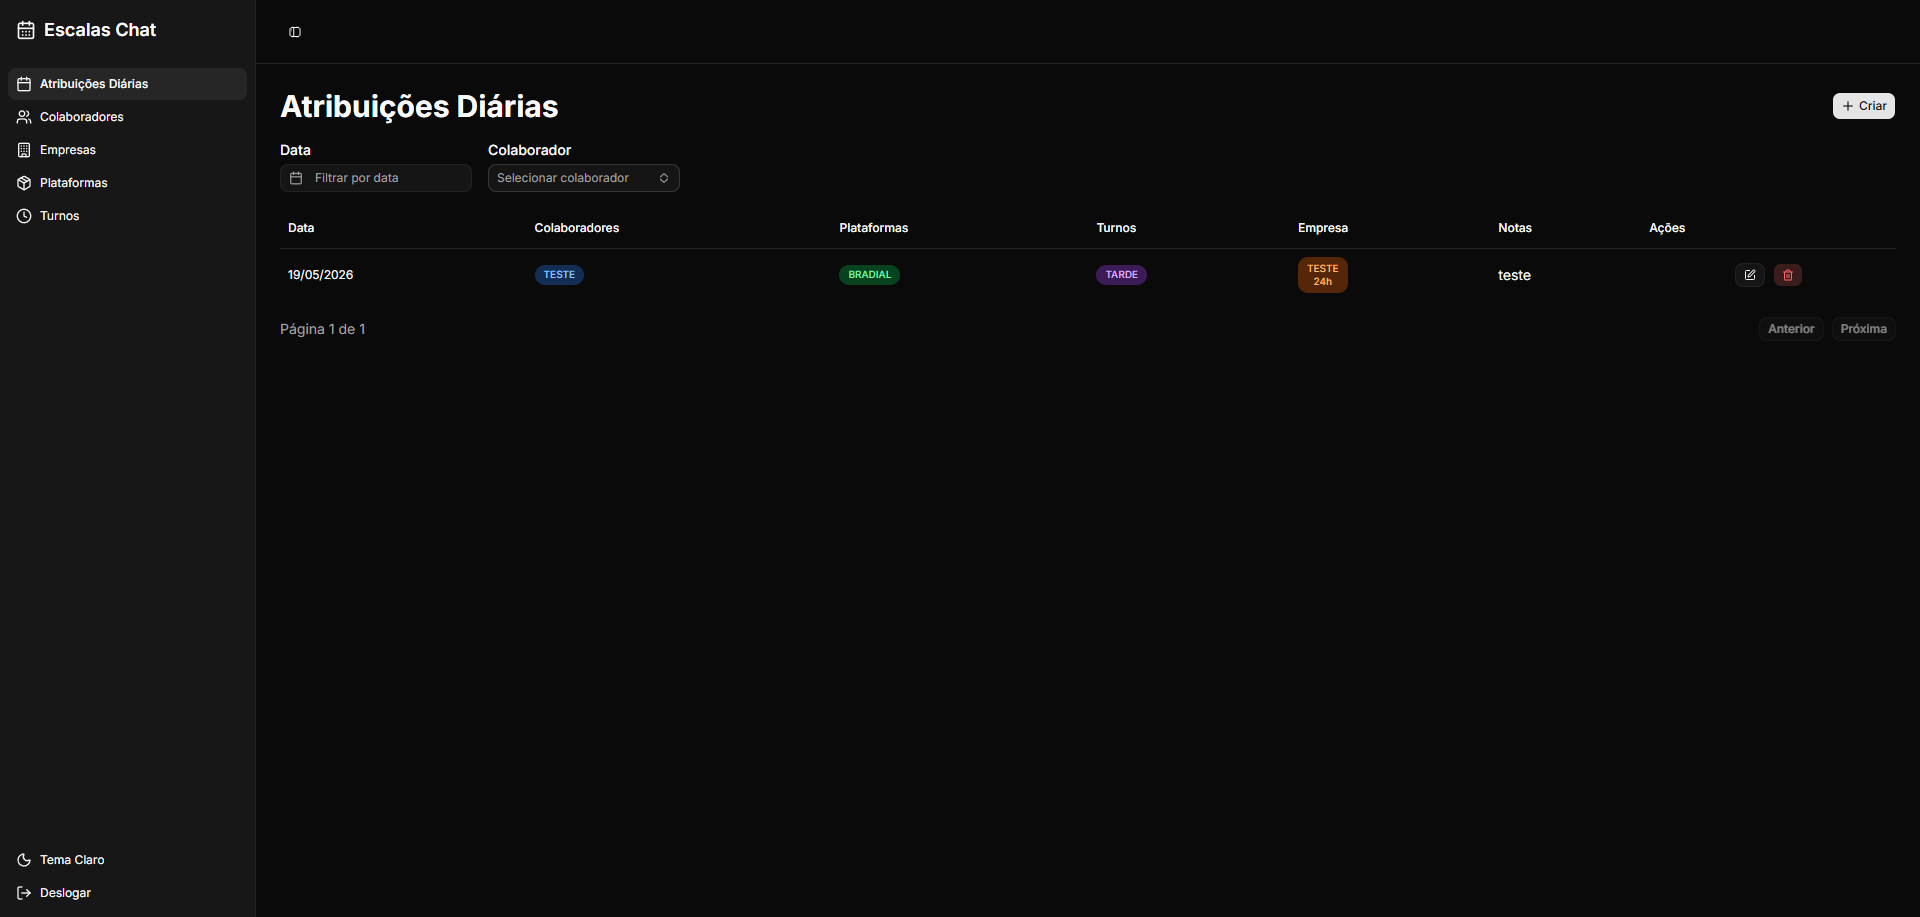
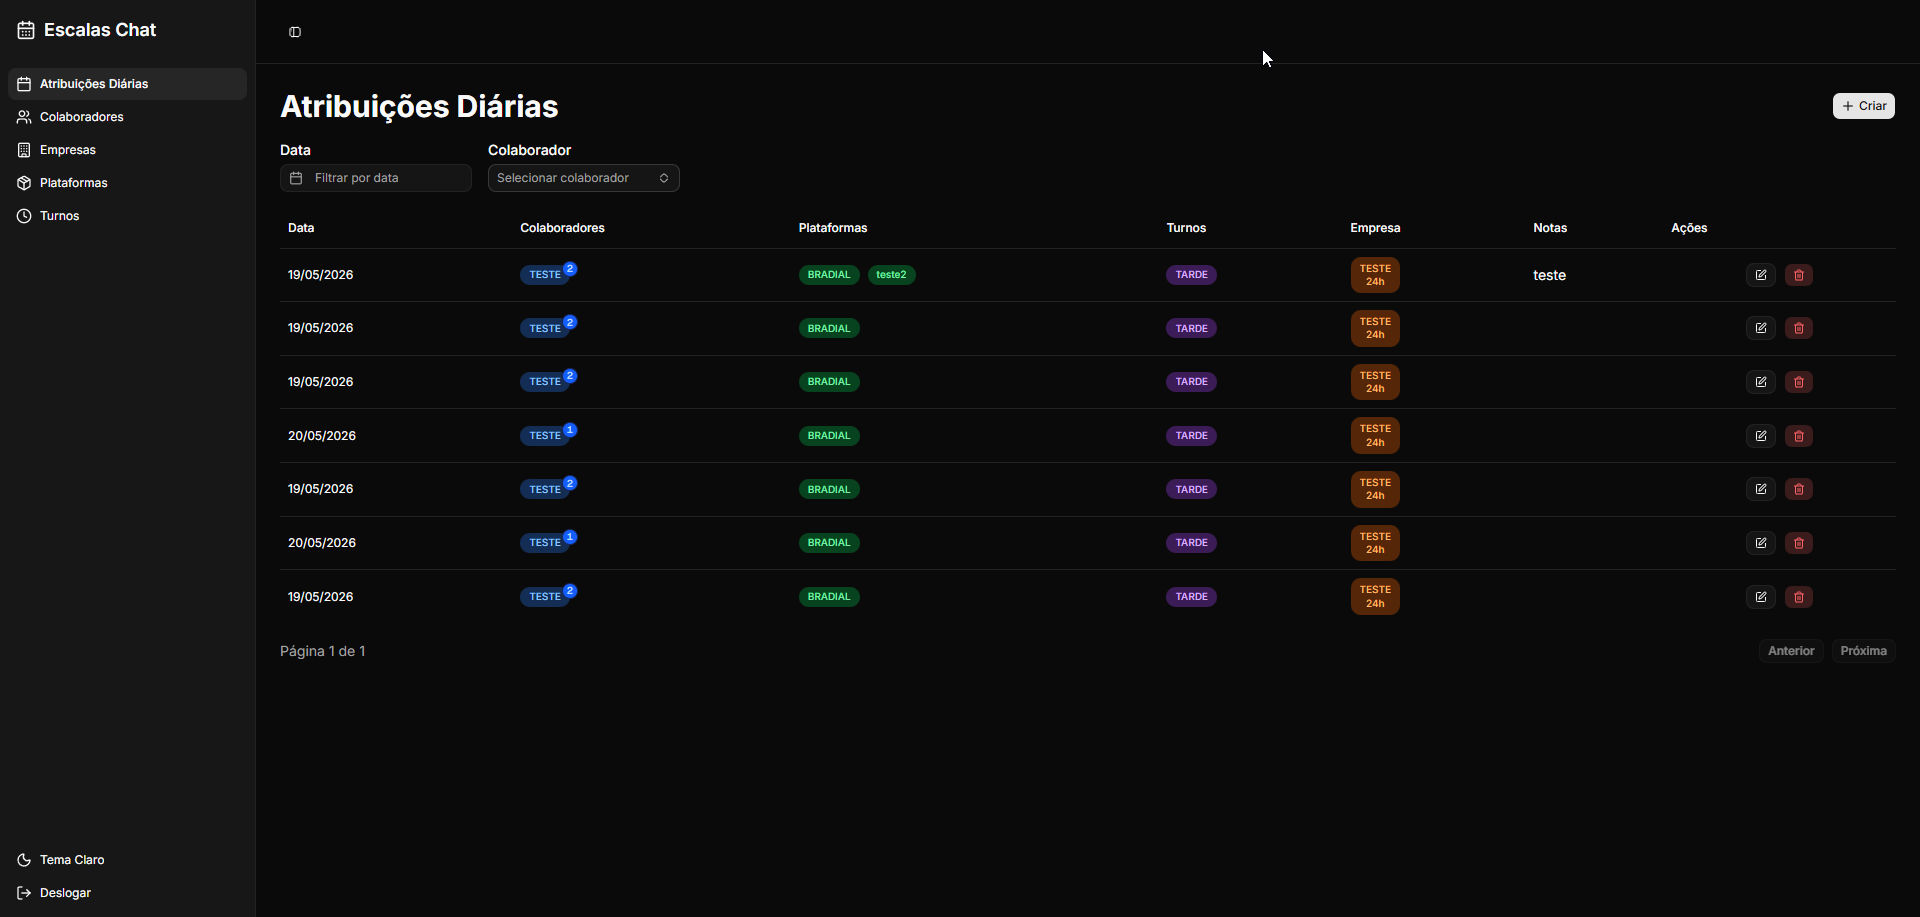
feat: atualizado readme e adicionado suporte a docker

diff --git a/README.md b/README.md
@@ -28,8 +28,8 @@ Escala Chat é uma solução para facilitar o gerenciamento de horários e escal
 
 ## 📋 Pré-requisitos
 
-- **Node.js** 18+ 
-- **pnpm** (ou npm/yarn)
+- **Node.js** 22+ 
+- **pnpm** 
 - **Docker** e **Docker Compose** (para executar com containers)
 
 ## 🚀 Instalação